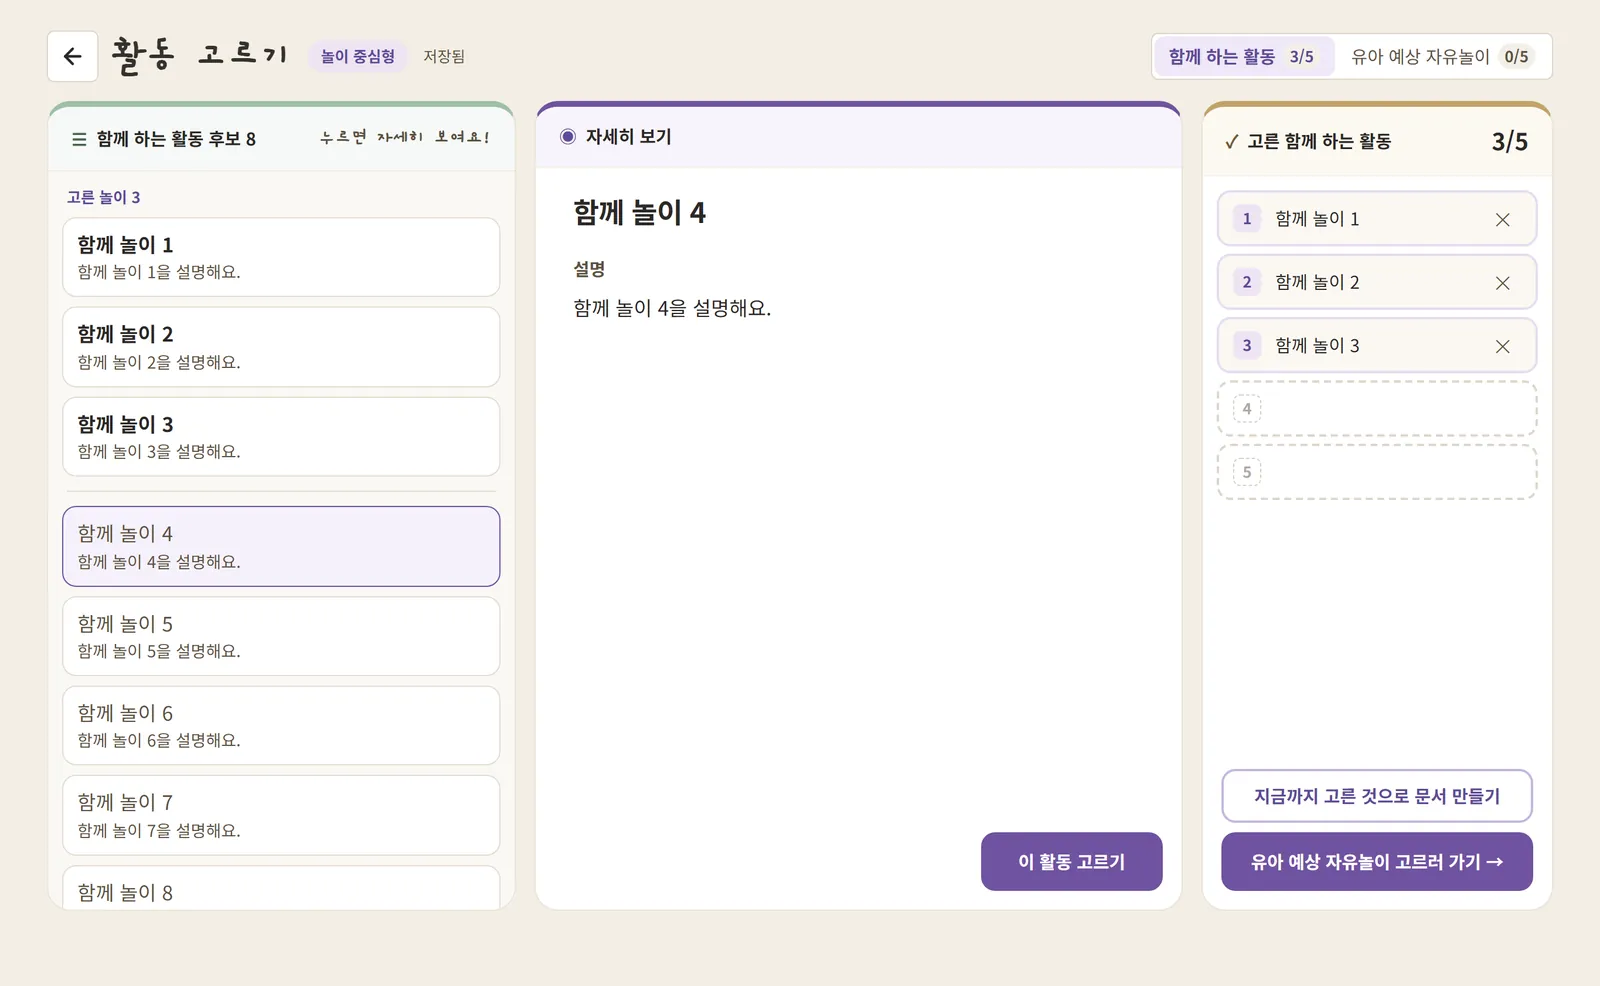
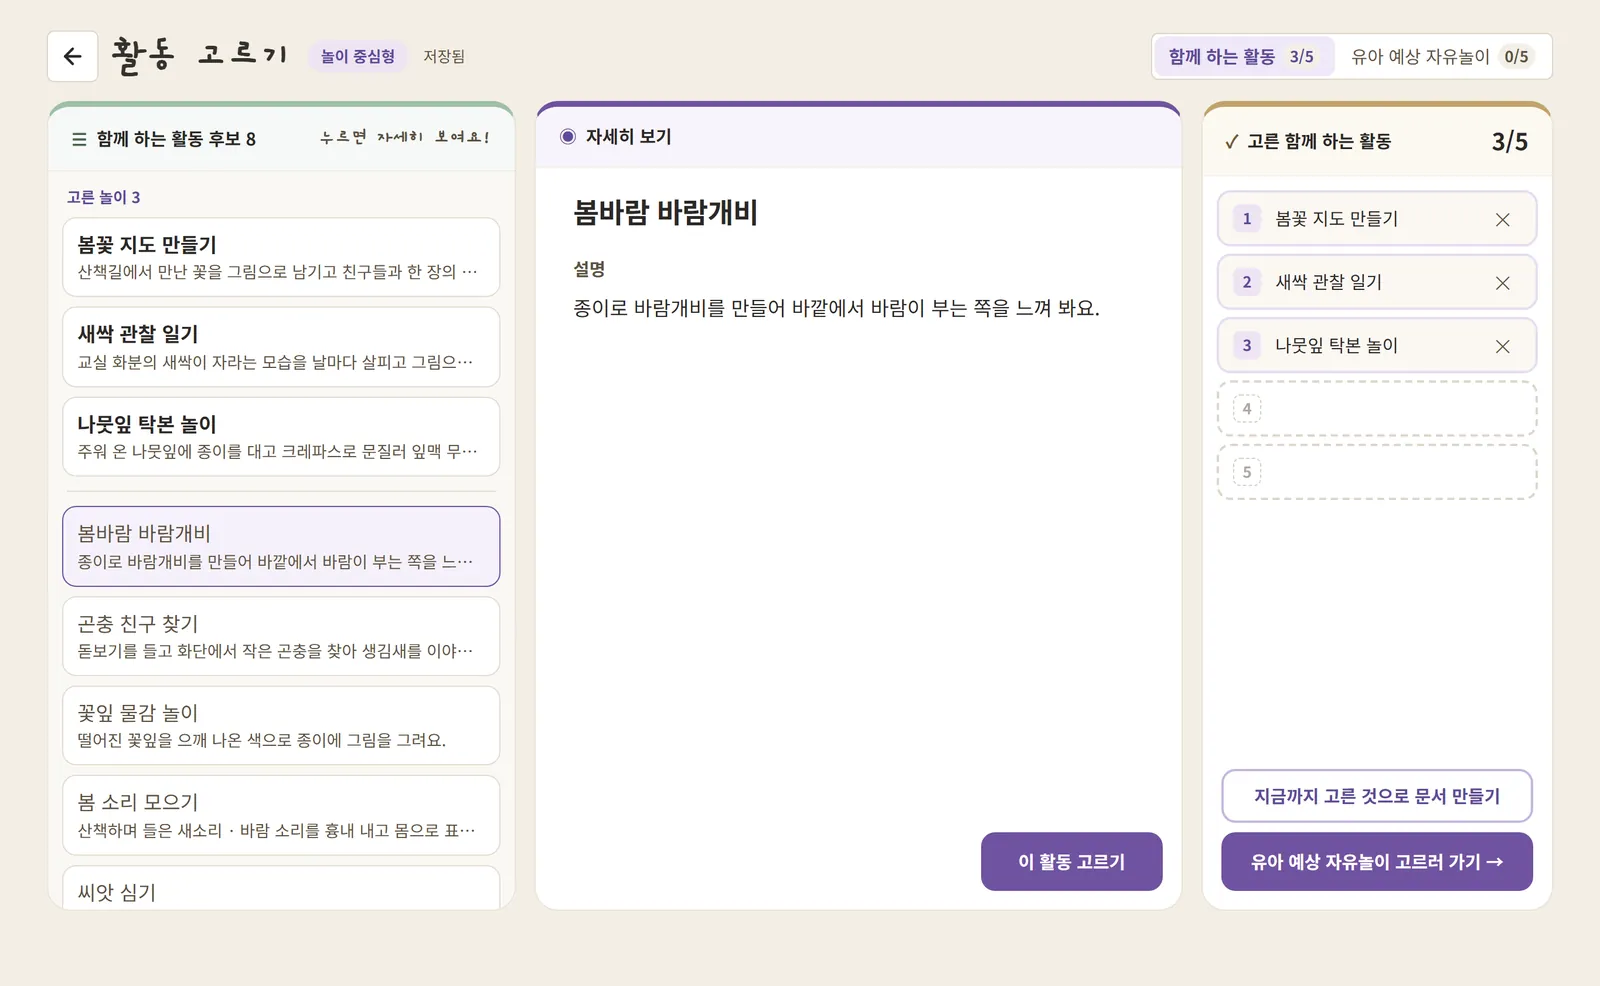
docs(guide): 계획안 안내 그림을 최신 화면으로 다시 찍는다
- 월별 주제형 6·7: 월간 안전교육 주별 묶음 · 주간 요일 묶음(「+ 넣기」 → 다음 요일)
- 놀이 중심형 7: 활동 고르기 화면(실제 같은 후보 이름)
- 주간 안내 문구를 「+ 넣기」 → 다음 요일 · 끌어다 놓기 · 칸 편집으로 맞춘다

diff --git a/frontend/components/app/Tour.tsx b/frontend/components/app/Tour.tsx
@@ -181,7 +181,7 @@ const SLIDES: Record<"MONTHLY_THEME" | "PLAY_PROJECT", { dir: string; slides: Sl
       },
       {
         title: "주간은 월간에서 이어받아요",
-        body: "주를 고르면 초안이 나와요. 빈칸을 누르면 「AI 후보」가 뜨고, 「넣기」를 누르거나 끌어다 놓아 채워요. 글을 고칠 땐 「칸 편집」을 눌러요.",
+        body: "주를 고르면 초안이 나와요. 빈칸을 누르면 「AI 후보」가 떠요. 「+ 넣기」를 누르면 채우고 다음 요일로 넘어가요. 끌어다 놓아도 돼요. 글을 고칠 땐 「칸 편집」을 눌러요.",
       },
     ],
   },
